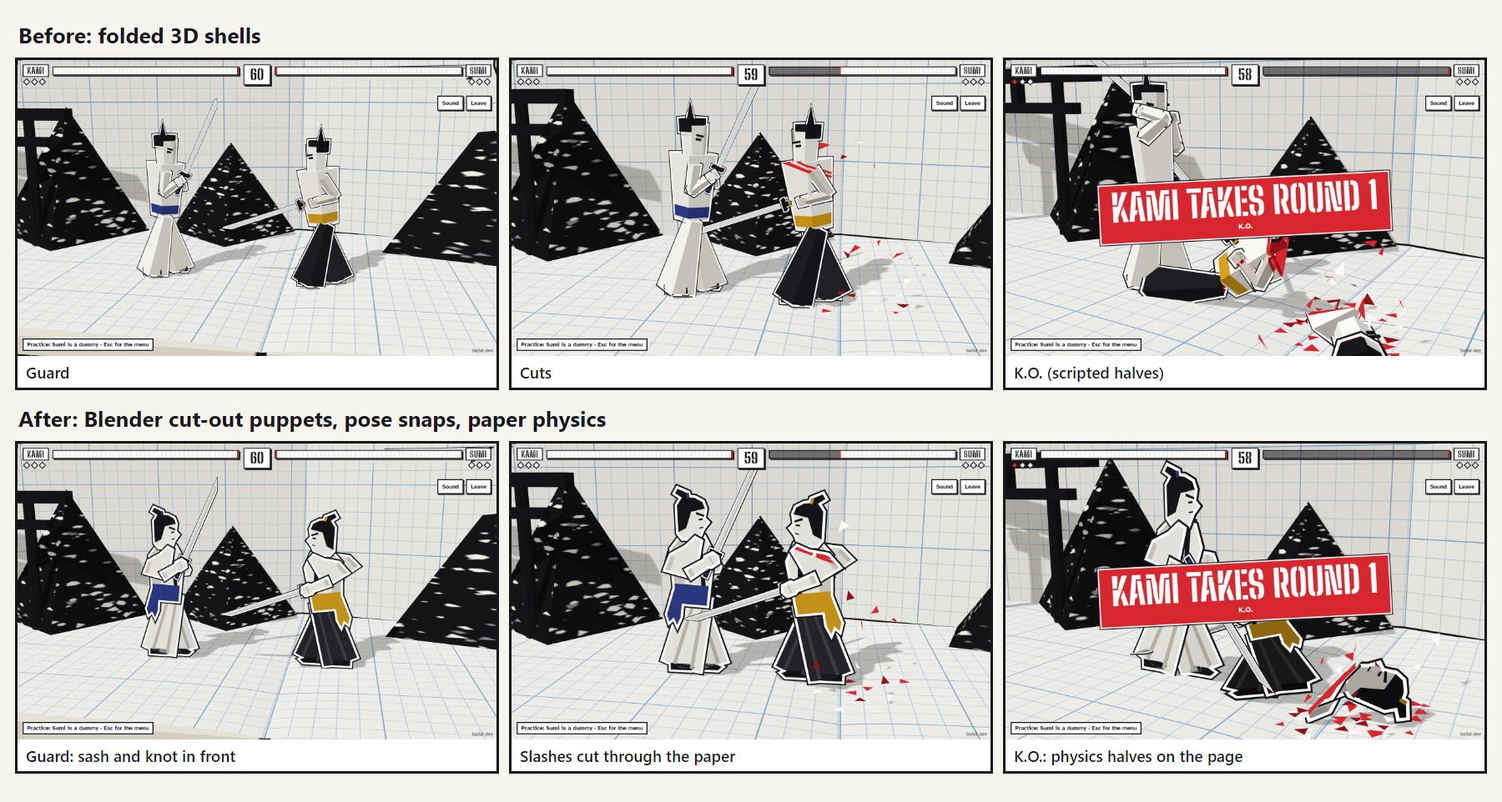
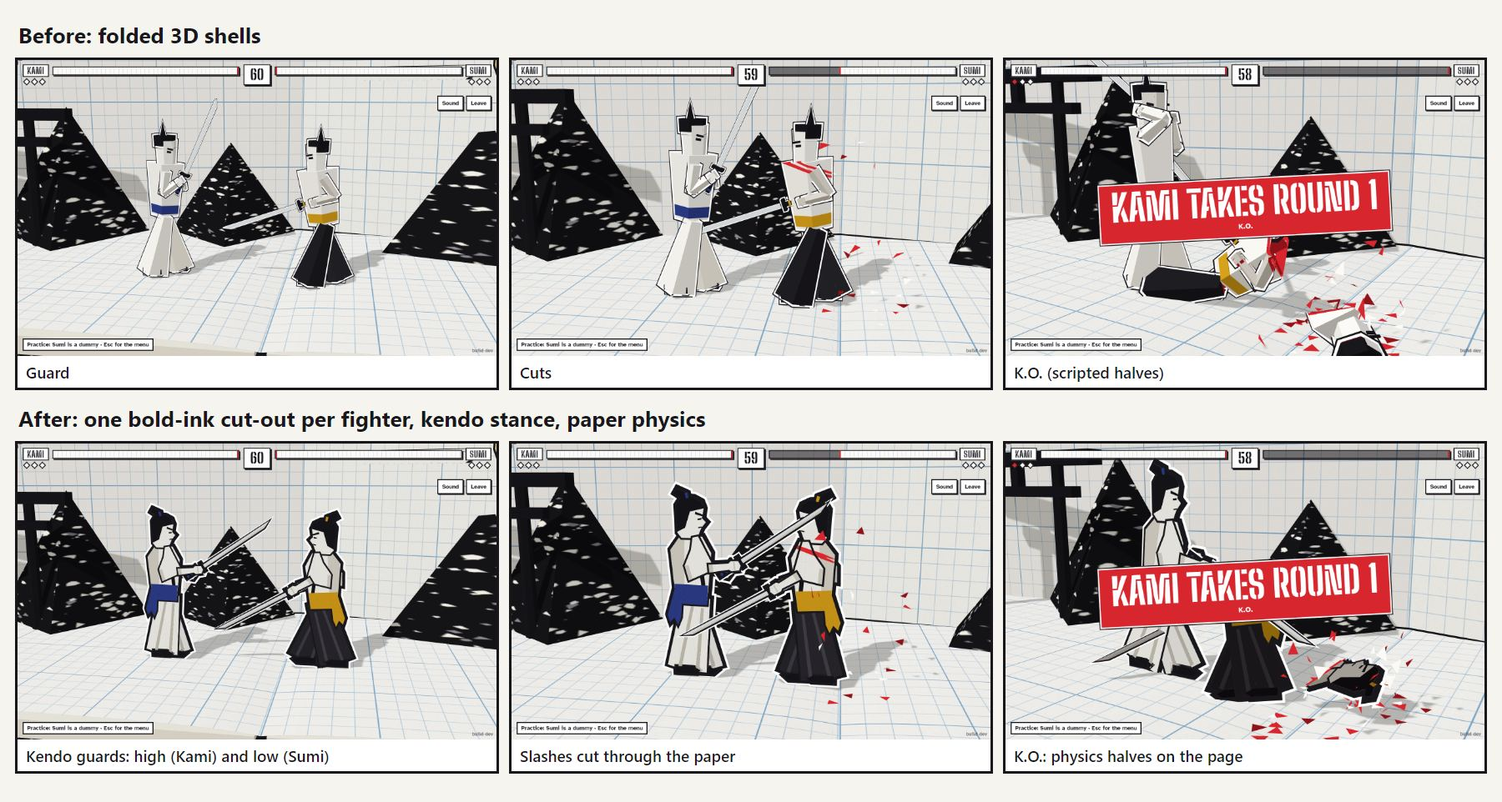
Fighters: one bold-ink cut-out per fighter, kendo stance
Marz's direction and swatch pick ("Bold ink"):
- The whole fighter is one thin sheet with one outline round the body (heavy ink line, thin white
  rim), ink lines where a limb crosses the body, and the sword outlined on its own.
- Kendo stance: arms held out, both hands on the grip; high guard points up, low guard down,
  overhead (jodan) and low-back (waki) wind-ups.
- Blender puppet flattened to one plane (piece order only); docs and Decision Log updated.

diff --git a/src/render/fighter.ts b/src/render/fighter.ts
@@ -1,7 +1,8 @@
-// Cut-out paper fighters: flat card pieces pinned at the joints, made in Blender (art/fighters/puppet.blend).
-// The game adds the card's thickness, a white sticker border with an ink edge, red slash marks, the K.O.
-// split and the falling halves. Poses snap between held key poses, like cut-out animation, while the body
-// glides. Poses are worked out here from the fight's state; nothing here changes the fight.
+// Cut-out paper fighters: one flat cut-out per fighter, posed by turning its pieces on their pins (made in
+// Blender, art/fighters/puppet.blend). Bold ink style: one heavy ink outline and thin white rim around the
+// whole body, ink lines where a limb crosses the body, and the sword outlined on its own. Plus red slash
+// marks, the K.O. split and the falling halves. Poses snap between held key poses (a kendo stance), like
+// cut-out animation, while the body glides. Nothing here changes the fight.
 
 import * as THREE from 'three';
 import { mergeGeometries } from 'three/examples/jsm/utils/BufferGeometryUtils.js';
@@ -13,10 +14,13 @@ import { ccw, clipConvex, clipHalf, offset, slashLens, type Line, type Pt } from
 import { PIECE_NAMES, loadPuppet, type Piece, type PieceName, type Puppet } from './puppet';
 import type { PaperPhysics } from './physics';
 
-const T = 0.022; // card thickness
-const SW = 0.03, IW = 0.047; // white sticker border and ink edge, measured from the card's edge
-const GAP = 0.03; // the white stops this short of a K.O. cut, so a thin red edge shows
-const HALF_Z = 0.15; // a falling half squashes its layers together, like paper
+const T = 0.005; // paper thickness: the whole fighter is one thin sheet
+// The outline round the whole body, outermost first: [colour, width from the paper's edge, depth behind the sheet].
+const BODY_EDGE: [string, number, number][] = [[C.white, 0.068, -0.034], [C.ink, 0.042, -0.028]];
+// The sword has its own outline, at its own layer.
+const SWORD_EDGE: [string, number, number][] = [[C.white, 0.035, -0.0035], [C.ink, 0.02, -0.0025]];
+const SEAM = 0.022; // ink line round each piece, seen where a limb crosses the body
+const GAP = 0.03; // the paper stops this short of a K.O. cut, so a thin red edge shows
 const MAX_PILES = 5; // Endless: halves of the last 5 cut bots stay on the page
 const BACK = new Set<PieceName>(['legB', 'footB', 'armBU', 'armBL']);
 const THIN = new Set<PieceName>(['sword']);
@@ -29,10 +33,10 @@ const LIT = new THREE.MeshLambertMaterial({ vertexColors: true, side: THREE.Doub
 const FLAT = new THREE.MeshBasicMaterial({ vertexColors: true, side: THREE.DoubleSide });
 const _c = new THREE.Color();
 
-function slab(p: Pt[], depth: number, color: THREE.Color): THREE.BufferGeometry {
+function slab(p: Pt[], depth: number, color: THREE.Color, z = 0): THREE.BufferGeometry {
   const shape = new THREE.Shape(ccw(p).map((q) => new THREE.Vector2(q[0], q[1])));
   const g = new THREE.ExtrudeGeometry(shape, { depth, bevelEnabled: false, curveSegments: 1 });
-  g.translate(0, 0, -depth / 2);
+  g.translate(0, 0, z - depth / 2);
   g.deleteAttribute('uv');
   const n = g.attributes.position.count, col = new Float32Array(n * 3);
   for (let i = 0; i < n; i++) col.set([color.r, color.g, color.b], i * 3);
@@ -41,28 +45,30 @@ function slab(p: Pt[], depth: number, color: THREE.Color): THREE.BufferGeometry 
 }
 
 interface PieceGeo { lit: THREE.BufferGeometry[]; flat: THREE.BufferGeometry[]; outline: Pt[][] }
-/** One piece as geometry: ink edge, sticker border, the card, printed details and red slash marks.
- *  With `cut`, only the kept side of the line: the white stops GAP short, so a red edge shows. */
+/** One piece as geometry: its share of the body outline, its ink seam, the paper, printed details and red
+ *  slash marks. The body outline sits behind every piece, so together the pieces show one outline round the
+ *  whole cut-out. With `cut`, only the kept side of the line: the paper stops GAP short, so a red edge shows. */
 function pieceGeo(piece: Piece, look: Look, marks: Pt[][], cut: Line | null): PieceGeo {
   const out: PieceGeo = { lit: [], flat: [], outline: [] };
-  const name = piece.name as PieceName, sc = THIN.has(name) ? 0.5 : 1;
+  const name = piece.name as PieceName, sword = THIN.has(name);
   const keep = (p: Pt[], gap: number) => (cut ? clipHalf(p, cut, gap) : p);
   const color = (role: string, own: string) => {
     _c.set(look.colors[role] ?? own);
     return BACK.has(name) ? _c.clone().multiplyScalar(0.88) : _c.clone();
   };
-  const add = (list: THREE.BufferGeometry[], p: Pt[], depth: number, col: THREE.Color) => { if (p.length >= 3) list.push(slab(p, depth, col)); };
-  const ink = new THREE.Color(C.ink), white = new THREE.Color(C.white), red = new THREE.Color(C.red);
+  const add = (list: THREE.BufferGeometry[], p: Pt[], depth: number, col: THREE.Color, z = 0) => { if (p.length >= 3) list.push(slab(p, depth, col, z)); };
+  const ink = new THREE.Color(C.ink), red = new THREE.Color(C.red);
   piece.shells.forEach((s, i) => {
-    add(out.flat, keep(offset(s.pts, IW * sc), GAP), T * 0.5, ink);
-    add(out.flat, keep(offset(s.pts, SW * sc), GAP), T * 0.75, white);
-    if (cut) add(out.flat, clipHalf(s.pts, cut), T * 0.88, red);
+    // Body outline layers sit at a fixed depth behind the whole sheet; the sword's sit just behind the sword.
+    for (const [col, w, z] of sword ? SWORD_EDGE : BODY_EDGE) add(out.flat, keep(offset(s.pts, w), GAP), 0.003, new THREE.Color(col), sword ? z : z - piece.rest.z);
+    if (!sword) add(out.flat, keep(offset(s.pts, SEAM), GAP), T * 0.6, ink);
+    if (cut) add(out.flat, clipHalf(s.pts, cut), T * 0.8, red);
     const card = keep(s.pts, GAP);
-    add(out.lit, card, T + i * 0.002, color(s.role, s.color));
+    add(out.lit, card, T + i * 0.0006, color(s.role, s.color));
     if (card.length >= 3) out.outline.push(card);
   });
-  piece.details.forEach((d, i) => add(out.lit, keep(d.pts, GAP), T + 0.006 + i * 0.0004, color(d.role, d.color)));
-  for (const lens of marks) for (const s of piece.shells) add(out.flat, keep(clipConvex(s.pts, lens), GAP), T + 0.014, red);
+  piece.details.forEach((d, i) => add(out.lit, keep(d.pts, GAP), T + 0.0016 + i * 0.0002, color(d.role, d.color)));
+  for (const lens of marks) for (const s of piece.shells) add(out.flat, keep(clipConvex(s.pts, lens), GAP), T + 0.003, red);
   return out;
 }
 /** Merge a piece (or a whole half) into two meshes: lit paper and unlit edges, so draw calls stay low. */
@@ -115,18 +121,20 @@ function applyPose(pr: Record<PieceName, THREE.Group>, P: Pose, d: Dims) {
   let k = ik(SF, vadd(H, rot(a, [GRIP_F, 0])), d.l1F, L2); setPart(pr.armFU, SF, k.up); setPart(pr.armFL, k.E, k.lo);
   k = ik(SB, vadd(H, rot(a, [GRIP_B, 0])), d.l1B, L2); setPart(pr.armBU, SB, k.up); setPart(pr.armBL, k.E, k.lo);
 }
+// A kendo stance: arms held out, both hands on the grip. High guard points the sword up at the rival's head,
+// low guard down at the knees. The high wind-up is overhead (jodan), the low one held back and low (waki).
 const POSE = {
   guard: {
-    high: { hipY: 0.95, lean: -0.05, legB: 0.24, legF: -0.26, hilt: [0.3, 0.62], sword: 68 * D, head: 0.02 },
-    low: { hipY: 0.9, lean: -0.13, legB: 0.3, legF: -0.32, hilt: [0.3, 0.3], sword: -12 * D, head: 0.08 },
+    high: { hipY: 0.95, lean: -0.02, legB: 0.2, legF: -0.16, hilt: [0.58, 0.5], sword: 35 * D, head: 0 },
+    low: { hipY: 0.92, lean: -0.06, legB: 0.24, legF: -0.2, hilt: [0.5, 0.22], sword: -26 * D, head: 0.06 },
   },
   wind: {
-    high: { hipY: 0.96, lean: 0.08, legB: 0.22, legF: -0.24, hilt: [0.0, 0.98], sword: 140 * D, head: -0.04 },
-    low: { hipY: 0.87, lean: 0.02, legB: 0.3, legF: -0.3, hilt: [-0.12, 0.22], sword: -160 * D, head: 0.04 },
+    high: { hipY: 0.97, lean: 0.04, legB: 0.2, legF: -0.18, hilt: [0.14, 1.22], sword: 128 * D, head: -0.02 },
+    low: { hipY: 0.9, lean: 0.06, legB: 0.26, legF: -0.26, hilt: [0.0, 0.26], sword: -168 * D, head: 0.03 },
   },
   strike: {
-    high: { hipY: 0.9, lean: -0.24, legB: 0.38, legF: -0.4, hilt: [0.42, 0.3], sword: -40 * D, head: 0.12 },
-    low: { hipY: 0.88, lean: -0.18, legB: 0.36, legF: -0.38, hilt: [0.42, 0.52], sword: 40 * D, head: 0.06 },
+    high: { hipY: 0.88, lean: -0.2, legB: 0.42, legF: -0.4, hilt: [0.62, 0.42], sword: -18 * D, head: 0.08 },
+    low: { hipY: 0.86, lean: -0.16, legB: 0.4, legF: -0.38, hilt: [0.6, 0.34], sword: 14 * D, head: 0.05 },
   },
 } as Record<'guard' | 'wind' | 'strike', Record<'high' | 'low', Pose>>;
 // How far toward the full wind-up / strike each move's key pose goes (lights are smaller motions).
@@ -284,7 +292,7 @@ export class FighterView {
         const lp = wp.clone().applyMatrix4(M.clone().invert()), l = Math.hypot(lp.normal.x, lp.normal.y) || 1;
         const L: Line = { nx: (side * lp.normal.x) / l, ny: (side * lp.normal.y) / l, c: (-side * lp.constant) / l };
         const pg = pieceGeo(this.puppet[name], this.look, this.marks[name] ?? [], L);
-        const m = hinv.clone().multiply(M); m.elements[14] *= HALF_Z;
+        const m = hinv.clone().multiply(M);
         for (const g of [...pg.lit, ...pg.flat]) g.applyMatrix4(m);
         lit.push(...pg.lit); flat.push(...pg.flat);
         for (const loop of pg.outline) for (const q of loop) for (const z of [-T, T]) { v.set(q[0], q[1], z).applyMatrix4(m); hull.push(v.x, v.y, v.z); }

diff --git a/src/render/puppet.ts b/src/render/puppet.ts
@@ -12,7 +12,7 @@ export interface Piece {
   name: string;
   /** The pin, where the piece turns, in the rest layout (metres; y up, z towards the camera). */
   rest: THREE.Vector3;
-  /** The paper itself: these get the white sticker border and ink edge. */
+  /** The paper itself: these make the body outline. */
   shells: Shape[];
   /** Printed on top of the paper, back to front. */
   details: Shape[];
@@ -33,7 +33,7 @@ function readPiece(node: THREE.Object3D): Piece {
     const role = (mat.name || 'paper').replace(/^pc_/, ''), color = '#' + (mat.color?.getHexString() ?? 'ffffff');
     const g = m.geometry, pos = g.attributes.position.array, index = g.index ? g.index.array : null;
     for (const loop of loopsFromTriangles(pos, index)) {
-      if (Math.abs(loop.z) < 0.0005) shells.push({ pts: loop.pts, role, color });
+      if (Math.abs(loop.z) < 0.0002) shells.push({ pts: loop.pts, role, color });
       else details.push({ pts: loop.pts, role, color, z: loop.z });
     }
   });

diff --git a/docs/art-direction.md b/docs/art-direction.md
@@ -5,7 +5,7 @@ Playable mock-up: [art/papercut-mockup.html](art/papercut-mockup.html) (open it 
 
 ## The short version
 - **World:** the Notebook Dojo. A pop-up feudal Japan made of stationery, as a real 3D book open on a desk. Each round is fought on a different spread.
-- **Fighters:** flat cut-out paper puppets pinned at the joints, standing in the 3D book (since 2026-11-02). Every piece has a white sticker border and an ink edge. They move like cut-out animation: held key poses that snap from one to the next, while the body glides.
+- **Fighters:** one flat paper cut-out per fighter, standing in the 3D book (since 2026-11-02), in a bold ink style: a heavy ink outline with a thin white rim around the whole body, and the sword outlined on its own. Only the pose changes, like cut-out animation: held key poses in a kendo stance that snap from one to the next, while the body glides.
 - **The red rule:** paper is red inside. Red only appears where paper is cut: slash marks, the K.O. split's cut edge, the health strip's cut edge.
 - **The fight:** the cursor sets your guard (above the waist high, below low), left click light, right click heavy, feint, parry into riposte, jump, dash. Catch the rival mid-heavy or after a miss and it's a counter cut: instant K.O.
 - **Technology:** Three.js, no new stack. Moves as data on a fixed 60-frame clock, ready for rollback online. Rapier for the falling halves.
@@ -39,27 +39,31 @@ References Marz shared (inspiration only, nothing copied): Samurai Shodown (heav
 - Menus and HUD stay flat paper; only the world is 3D.
 
 ## Fighters: cut-out puppets
-_Since 2026-11-02. Marz asked for "2D-esque" fighters that move like Paper Mario or Inferno Cop's cut-outs; this replaces the folded low-poly shells. Preview of the three animation styles he chose from: https://claude.ai/artifact/XhTD4K59tCYokVW3139tst_
+_Since 2026-11-02. Marz asked for "2D-esque" fighters that move like Paper Mario or Inferno Cop's cut-outs; this replaces the folded low-poly shells. Previews he chose from: animation styles https://claude.ai/artifact/XhTD4K59tCYokVW3139tst, outline styles https://claude.ai/artifact/JPJvyT9A9TX2djjnJQJoHc (he picked "Bold ink")._
 
-Each fighter is a puppet of 11 flat card pieces, each turning on one pin: torso, head (with hair and topknot), front and back hakama legs, two feet, upper arms with wide kimono sleeves, forearms with fists, and the katana. They stand in the lane facing each other, drawn in profile; a fighter facing left is drawn mirrored, so every fighter shows the same side. Back limbs are the same pieces, shaded a little darker.
+Each fighter reads as **one flat cut-out**, like a Paper Mario sticker or a Game & Watch figure: everything lies on one thin sheet, and only the pose changes. Under the hood it's 11 flat pieces, each turning on one pin: torso, head (with hair and topknot), front and back hakama legs, two feet, upper arms with wide kimono sleeves, forearms with fists, and the katana. They stand in the lane facing each other, drawn in profile; a fighter facing left is drawn mirrored, so every fighter shows the same side. Back limbs are the same pieces, shaded a little darker.
 
 **The sash is the name tag:** it's the quickest way to tell Kami (indigo) from Sumi (gold), so it is never covered. The hakama legs sit behind the torso, and the sash is a wide band with a two-tailed knot hanging at the back of the hip (Marz's playtest of the first cut-out build: the hakama hid the belt). From each flat piece the game builds:
 
 | Layer | What it is |
 |---|---|
-| Ink edge | The piece's outline grown by 4.7 cm, in ink: the thin outer hairline |
-| Sticker | The outline grown by 3 cm, in white: the sticker border, so every piece looks cut out |
-| Card | The piece itself, 2.2 cm thick, in its paper colour |
-| Print | Details on the card (hair, face, collar, sash, pleats, grip), on both sides |
+| White rim | Every piece's outline grown by 6.8 cm, in white, behind the whole sheet: a thin white rim round the body |
+| Body outline | Grown by 4.2 cm, in ink, also behind the whole sheet: together they make one heavy outline round the whole cut-out |
+| Ink lines | Each piece's own 2.2 cm ink line, only seen where a limb crosses the body (an arm over the chest, the torso over the legs) |
+| Sword outline | The sword's own ink line (2 cm) and white rim (3.5 cm), at the sword's layer, so it stands out over the body |
+| Paper | The piece itself, half a centimetre thick, in its paper colour |
+| Print | Details on the paper (hair, face, collar, sash, pleats, grip), on both sides |
 | Slash marks | A red six-sided slash where a hit crossed the paper, cut through every piece it passes (torso, sleeves, arms) |
+
+**The kendo stance:** arms held out, both hands on the grip. High guard points the sword up at the rival's head, low guard down at the knees; the high wind-up is overhead (jodan), the low one held back and low (waki). With straight arms the blade tips cross at close range, as in real kendo.
 
 **Motion (pose snaps):** each moment of a move has one key pose (guard, wind-up, strike, follow-through, stun, landing, dash, walk steps, jump). The puppet holds it and snaps to the next with a single in-between, like cut-out animation; the body still glides across the page, so spacing reads. A held wind-up is easier to read than a smooth one, which keeps pillar 3. **Turning around**, the card flips through edge-on in two held steps.
 
 **The K.O.:** every piece is cut along the blade's line into two halves. The white stops 3 cm short of the line, so a thin red edge shows. The top half flies off along the blade; the legs keel over. Both are paper physics bodies (Rapier, cosmetic only): they tumble, bounce off the pop-ups and lie flat on the page until it turns. Earlier slash marks stay on the halves. In Endless, the halves of the last 5 cut bots stay on the page; older ones fold flat into it.
 
-**Flatness is the point:** from the K.O. camera's three-quarter view the fighters show they're cards. The white border and ink edge carry them against any paper.
+**Flatness is the point:** from the K.O. camera's three-quarter view the fighters show they're paper. The bold outline carries them against any paper.
 
-Readability first: a side-on camera with a slight angle, an outline on every piece against any paper, and guard height readable from the blade alone.
+Readability first: a side-on camera with a slight angle, one bold outline round every fighter against any paper, and guard height readable from the blade alone.
 
 ## Setting and names
 | Thing | Name | Notes |
@@ -131,14 +135,14 @@ Icons in `art/icons/` (katana, high, low, jump, clean cut, dodge): flat paper sh
 - **Next:** key poses as Blender poses (they're in code today), then new fighters and blades on the same piece list, so each one is a drawing job, not a coding job.
 
 Concept prompt:
-> Original paper cut-out samurai puppet, flat pieces of white card joined at the joints like a split-pin puppet, side view facing right, wide kimono sleeves, flared pleated hakama, black paper hair with a topknot, stern face with a heavy brow, indigo sash, katana with an indigo-wrapped grip, thick white sticker border with a thin black edge around each piece, standing on blue graph paper in an open notebook, flat colors, straight edges only, no text, no red anywhere.
+> Original paper cut-out samurai puppet, flat pieces of white card joined at the joints like a split-pin puppet, side view facing right, wide kimono sleeves, flared pleated hakama, black paper hair with a topknot, stern face with a heavy brow, indigo sash, katana with an indigo-wrapped grip, one bold black outline with a thin white rim around the whole figure, the sword outlined separately, kendo stance with arms extended, standing on blue graph paper in an open notebook, flat colors, straight edges only, no text, no red anywhere.
 
 Check the commercial-use terms of any image tool, and don't name other franchises' characters in prompts.
 
 ## Decided 2026-11-01 (updated 2026-11-02)
 - A 3D weapon fighting game: paper health strip plus red body cuts, best of 5 rounds of 60 seconds with page turns between, the cursor guard stance (above or below the waist), light and heavy slashes, fast feet and deadly commits, the counter cut as the touch of death.
 - Kami (player 1) and Sumi (player 2 / dummy); Rapier physics for the cut halves (cosmetic).
-- 2026-11-02: fighters are flat cut-out puppets made in Blender, moving in pose snaps; Endless keeps the last 5 bots' halves on the page.
+- 2026-11-02: fighters are flat cut-outs made in Blender (one sheet, bold ink outline, kendo stance), moving in pose snaps; Endless keeps the last 5 bots' halves on the page.
 - Mouse controls: cursor guard, left click light, right click heavy, keyboard movement; feint and riposte; no two players on one PC, no gamepads for now.
 - A practice dummy in Milestone 1 and a computer fighter later; one shared move set in Milestone 1; simple specials later.
 - Since the first build (2026-11-02): Endless mode, custom room rules and tournaments use the same two looks (Kami and Sumi) with player names on the HUD; their rules are in the GDD. Whether bots and tournament players get looks of their own is an open art question.

diff --git a/docs/GDD.md b/docs/GDD.md
@@ -23,7 +23,7 @@ A sharp duelist in a real fighting game: poke fast, read the rival, and punish t
 5. **Test bed for art:** every fighter and blade goes through one documented Blender → game pipeline, so models, rigs and animations are easy to try.
 
 ## Look (summary; full detail in art-direction.md)
-- **Fighters:** flat cut-out paper puppets (since 2026-11-02): 11 card pieces pinned at the joints, drawn in profile, standing in the 3D book. Paper is red inside. Every piece gets a white sticker border with a thin ink edge. They move in pose snaps: held key poses with one in-between, like cut-out animation, while the body glides; turning around, the card flips. Kami (player 1): white with an indigo sash. Sumi (player 2 / dummy): black hakama, gold sash.
+- **Fighters:** one flat paper cut-out per fighter (since 2026-11-02), drawn in profile, standing in the 3D book; only the pose changes. Paper is red inside. Bold ink style: a heavy ink outline with a thin white rim round the whole body, ink lines where a limb crosses the body, the sword outlined on its own. A kendo stance (arms out, both hands on the grip). They move in pose snaps: held key poses with one in-between, like cut-out animation, while the body glides; turning around, the card flips. Kami (player 1): white with an indigo sash. Sumi (player 2 / dummy): black hakama, gold sash.
 - **World:** an open notebook on a desk. Round 1 is fought on the Graph Paper Dojo spread, round 2 on the Ruled Courtyard, round 3 on the Legal Pad Grove; the match winner stands on the marble back cover.
 - **HUD:** paper health strips that get sliced shorter, a paper countdown tag, round markers. Straight lines and flat facets only. Red is paper, not blood. One non-red accent per fighter.
 
@@ -196,3 +196,4 @@ The one question it answers: **does mouse-driven paper swordplay feel good?** Si
 | 2026-11-02 | Animation style: pose snaps. Each moment holds one key pose and snaps to the next with a single in-between; the body glides; turning around, the card flips through edge-on | Marz's pick of three previewed styles (my recommendation). Held key poses keep wind-ups readable (pillar 3); full held-frame motion with jitter (closest to Inferno Cop) made footwork hard to read. |
 | 2026-11-02 | K.O. halves are Rapier physics (#7): tumble, bounce off pop-ups, lie flat on the page. In Endless the last 5 cut bots' halves stay on the page; older ones fold flat | Marz's picks. 5 matches the heal and level-up every 5 bots. Physics is cosmetic and never touches the fight. |
 | 2026-11-02 | The sash is never covered: hakama legs sit behind the torso, the sash is wider with a two-tailed knot at the back of the hip, the hakama flares less, and a fighter facing left is drawn mirrored so the layers keep their order | Marz's feedback on the first cut-out build: the puffy hakama hid the belt, the biggest sign of which fighter you are (pillar 3). |
+| 2026-11-02 | Each fighter is one flat cut-out on one sheet with one outline round the whole body (not a stack of separately outlined pieces); bold ink style (heavy ink outline, thin white rim, ink lines where limbs cross, the sword outlined on its own); a kendo stance with arms held out | Marz's direction (Paper Mario stickers, Game & Watch) and his pick of three swatches. One outline reads as a single cut-out moving stop-motion style; the ink lines keep Kami's white arms readable over his white chest (pillar 3). Kendo guards keep high vs low readable from the blade; the tips cross more at close range. |

diff --git a/docs/blender-pipeline.md b/docs/blender-pipeline.md
@@ -1,5 +1,5 @@
 # Papercut — Blender → game guide (cut-out fighters)
-_2026-11-02. For Blender 5.2. The fighters are flat paper puppets: you draw flat pieces in Blender, and the game adds the card's thickness, the white sticker border, the ink edge, red slashes and the K.O. cut. Design rules: [art-direction.md](art-direction.md) ("Fighters: cut-out puppets")._
+_2026-11-02. For Blender 5.2. The fighters are flat paper puppets: you draw flat pieces in Blender, and the game adds the bold ink outline round the whole body, red slashes and the K.O. cut. Design rules: [art-direction.md](art-direction.md) ("Fighters: cut-out puppets")._
 
 **Files**
 - `art/fighters/puppet.blend`: the puppet you edit (Kami's colours).
@@ -43,10 +43,12 @@ Sumi uses the same puppet and swaps four roles in code (`hakama`, `pleat`, `sash
 Details are flat shapes laid just in front of the paper.
 1. Click the piece, **Tab** into Edit Mode, press **3** (pick faces), and click an existing detail on that piece (for example the sleeve hem).
 2. **Shift+D** to copy it, move the mouse, click to drop it. Reshape it as in step 2.
-3. Keep it just in front of the paper: press **N**, and in the **Item** tab check its **Y** is between −0.001 and −0.02 (more negative = further in front, drawn over other details).
+3. Keep it just in front of the paper: press **N**, and in the **Item** tab check its **Y** is between −0.0005 and −0.005 (more negative = further in front, drawn over other details).
 4. With the new shape still picked, in the Material tab pick the material for it and click **Assign**.
 
-The paper itself must sit exactly at Y = 0; anything at Y = 0 gets the white border.
+The paper itself must sit exactly at Y = 0; anything at Y = 0 is part of the body's outline.
+
+**Drawing order of pieces:** the whole fighter is one thin sheet. Each piece's **Y** location (Object Mode, **N** panel) only says which piece is drawn on top: more negative is in front. Today, back to front: back arm, back leg, front leg, torso, head, sword, front arm (from +0.016 down to −0.014).
 
 ## 5. Move a pin or change proportions
 The game reads where each pin is from the layout in this file: neck height, shoulders, elbows, hips, and leg length (from each leg's pin down to its foot's pin, minus 6 cm).
@@ -69,6 +71,6 @@ The game reads where each pin is from the layout in this file: neck height, shou
 
 ## What the game does with it
 - Reads each piece's outline and printed details, its pin and its colours.
-- Gives every piece 2.2 cm of thickness, a 3 cm white sticker border and a thin ink edge.
+- Draws the fighter as one thin sheet with one bold outline round the whole body (a heavy ink line and a thin white rim), ink lines where a limb crosses the body, and the sword outlined on its own.
 - Poses the puppet from the fight (key poses are in code for now; making them in Blender is the next step).
 - Cuts red slashes into the paper on hits, and on a K.O. cuts every piece in two for the paper-physics halves.
